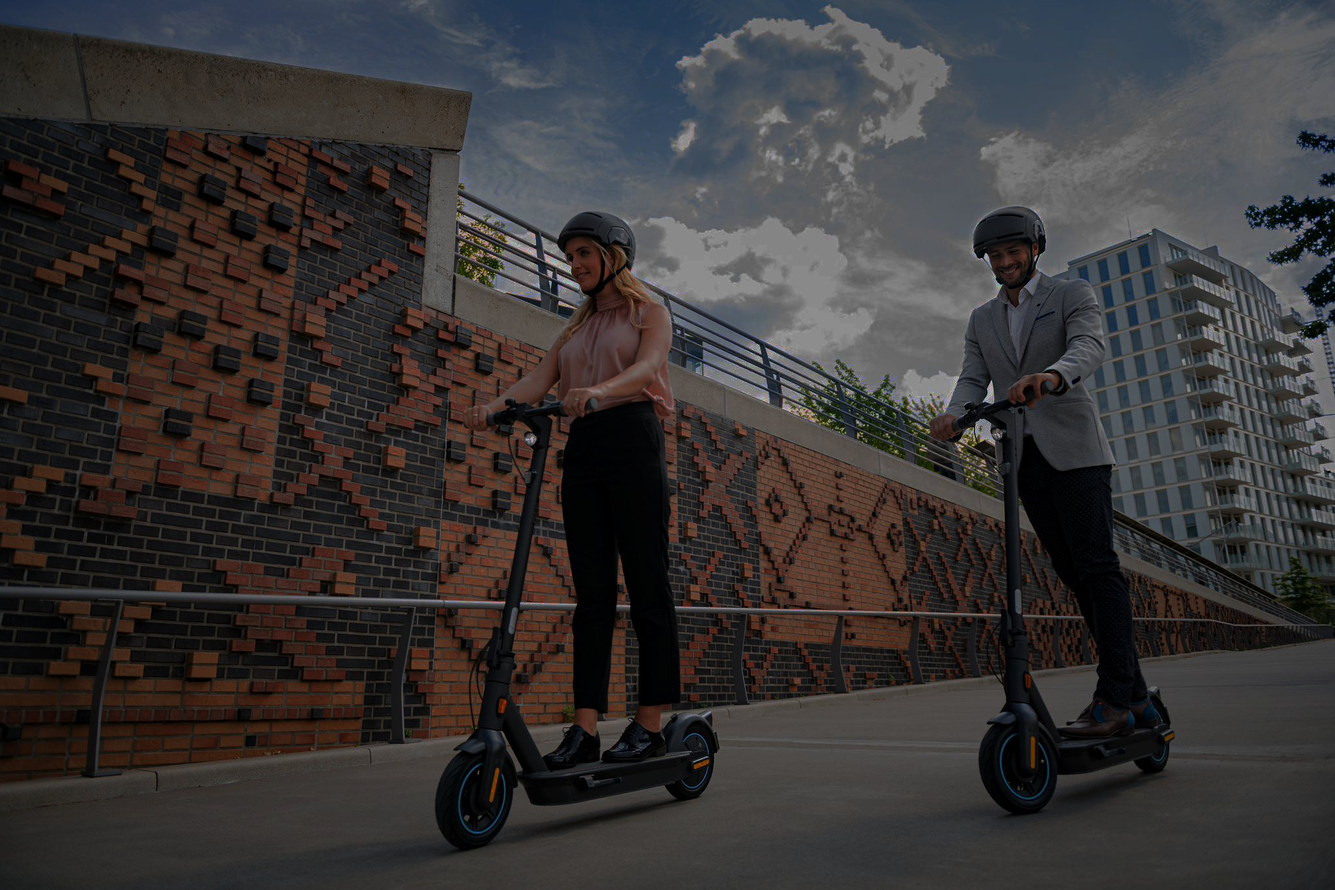
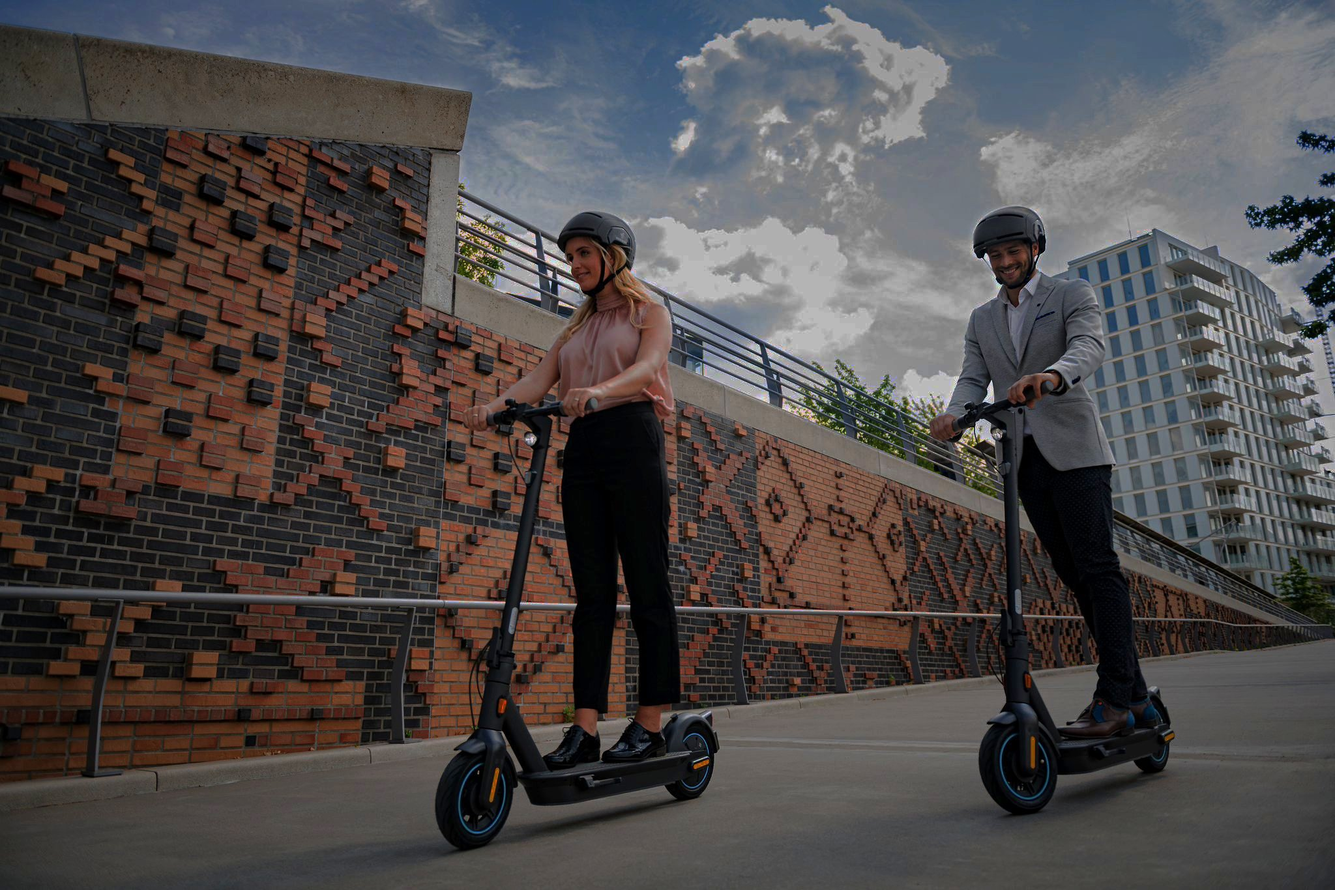
updates

diff --git a/src/components/homepage/Hero.jsx b/src/components/homepage/Hero.jsx
@@ -14,8 +14,7 @@ const data = [
     id: 1,
     title: 'E-SCooTER REPARATUR',
     image: reparatur,
-    content:
-      '',
+    content: '',
     buttonText: 'Reparaturtermin Online Buchen',
     href: '#',
   },
@@ -23,8 +22,7 @@ const data = [
     id: 2,
     title: 'VERKAUF',
     image: verkauf,
-    content:
-      '',
+    content: '',
     buttonText: 'E-Scooter Kaufen',
     href: 'https://store.be-scooter.de/',
   },
@@ -64,70 +62,106 @@ const data = [
     buttonText: 'Tour Buchen',
     href: 'https://store.be-scooter.de/collections/touren-1',
   },
-];
+]
 
 // Helper function to check if the display is mobile or not
 const isMobileDisplay = () => {
-  if (typeof window === 'undefined') return false;
-  return window.innerWidth <= 766;
-};
+  if (typeof window === 'undefined') return false
+  return window.innerWidth <= 766
+}
 
 export function Hero() {
-  const [expandedCard, setExpandedCard] = useState(null);
-  const [upperCardsClass, setUpperCardsClass] = useState('');
-  const [LowerCardsClass, setLowerCardsClass] = useState('');
-  const [isMobile, setIsMobile] = useState(false);
-  const [showContent, setShowContent] = useState(false);
+  const [expandedCard, setExpandedCard] = useState(null)
+  const [upperCardsClass1, setUpperCardsClass1] = useState('')
+  const [upperCardsClass2, setUpperCardsClass2] = useState('')
+  const [upperCardsClass3, setUpperCardsClass3] = useState('')
+  const [LowerCardsClass4, setLowerCardsClass4] = useState('')
+  const [LowerCardsClass5, setLowerCardsClass5] = useState('')
+  const [LowerCardsClass6, setLowerCardsClass6] = useState('')
+  const [isMobile, setIsMobile] = useState(false)
+  const [showContent, setShowContent] = useState(false)
 
   // Set initial isMobile state and handle window resize on the client-side
   useEffect(() => {
-    const isMobile = isMobileDisplay();
-    setIsMobile(isMobile);
-    setShowContent(isMobile);
+    const isMobile = isMobileDisplay()
+    setIsMobile(isMobile)
+    setShowContent(isMobile)
 
     const handleResize = () => {
-      const isMobile = isMobileDisplay();
-      setIsMobile(isMobile);
-      setShowContent(isMobile);
-    };
-    window.addEventListener('resize', handleResize);
-    return () => window.removeEventListener('resize', handleResize);
-  }, []);
+      const isMobile = isMobileDisplay()
+      setIsMobile(isMobile)
+      setShowContent(isMobile)
+    }
+    window.addEventListener('resize', handleResize)
+    return () => window.removeEventListener('resize', handleResize)
+  }, [])
 
   const handleMouseEnter = (cardId) => {
-    if (isMobile) return;
+    if (isMobile) return
 
-    setExpandedCard(cardId);
-    if (cardId > 3) {
-      setUpperCardsClass('move-up');
-      setLowerCardsClass('move-down');
+    setExpandedCard(cardId)
+
+    if(cardId == 1){
+      setLowerCardsClass5('bring-bottom-up')
+      setLowerCardsClass6('bring-bottom-up')
+    } else
+    if(cardId == 2){
+      setLowerCardsClass4('bring-bottom-up')
+      setLowerCardsClass6('bring-bottom-up')
+    } else
+    if(cardId == 3){
+      setLowerCardsClass4('bring-bottom-up')
+      setLowerCardsClass5('bring-bottom-up')
+    } else
+    if (cardId == 4) {
+      setUpperCardsClass1('move-up')
+      setLowerCardsClass4('move-down')
+    } else
+    if (cardId == 5) {
+      setUpperCardsClass2('move-up')
+      setLowerCardsClass5('move-down')
+    } else 
+    if (cardId == 6) {
+      setUpperCardsClass3('move-up')
+      setLowerCardsClass6('move-down')
     } else {
-      setUpperCardsClass('');
-      setLowerCardsClass('');
+      setUpperCardsClass1('')
+      setUpperCardsClass2('')
+      setUpperCardsClass3('')
+      setLowerCardsClass4('')
+      setLowerCardsClass5('')
+      setLowerCardsClass6('')
     }
-    setShowContent(true);
-  };
+    setShowContent(true)
+  }
 
   const handleMouseLeave = () => {
-    if (isMobile) return;
+    if (isMobile) return
 
-    setExpandedCard(null);
-    setUpperCardsClass('');
-    setLowerCardsClass('');
-    setShowContent(false);
-  };
+    setExpandedCard(null)
+    setUpperCardsClass1('')
+    setUpperCardsClass2('')
+    setUpperCardsClass3('')
+    setLowerCardsClass4('')
+    setLowerCardsClass5('')
+    setLowerCardsClass6('')
+    setShowContent(false)
+  }
 
   return (
     <div className="mx-auto bg-[#7e92a575] p-4">
-      <div className="grid grid-cols-1 md:grid-cols-3 gap-4">
+      <div className="grid grid-cols-1 gap-4 md:grid-cols-3">
         {data.map((card, index) => (
           <div
             key={card.id}
-            className={`relative lg:h-[392px] h-[720px] md:h-[220px] w-full overflow-hidden rounded-3xl transition-all duration-700 ease-in-out ${
-              expandedCard === card.id ? 'lg:h-[50rem] md:h-[29rem]' : ''
-            }  ${index < 3 ? upperCardsClass : ''} ${
-              index >= 3 ? LowerCardsClass : ''
-            }`}
+            className={`relative h-[720px] w-full overflow-hidden rounded-3xl transition-all duration-700 ease-in-out md:h-[220px] lg:h-[392px] ${
+              expandedCard === card.id ? 'md:h-[29rem] lg:h-[50rem]' : ''
+            }  ${index == 0 ? upperCardsClass1 : ''}
+            ${index == 1 ? upperCardsClass2 : ''}
+            ${index == 2 ? upperCardsClass3 : ''}
+            ${index == 3 ? LowerCardsClass4 : ''}
+            ${index == 4 ? LowerCardsClass5 : ''}
+            ${index == 5 ? LowerCardsClass6 : ''}`}
             onMouseEnter={() => handleMouseEnter(card.id)}
             onMouseLeave={handleMouseLeave}
           >
@@ -135,7 +169,7 @@ export function Hero() {
               src={card.image}
               alt={card.title}
               className={`h-full w-full object-cover ${
-                expandedCard === card.id ? 'brightness-75' : 'brightness-50'
+                expandedCard === card.id ? 'brightness-75' : 'brightness-75'
               }`}
             />
             <div
@@ -144,111 +178,118 @@ export function Hero() {
               }`}
             >
               <h2
-                className={`mb-4 lg:text-3xl text-2xl font-semibold text-white top-4 absolute`}
+                className={`absolute top-4 mb-4 text-2xl font-semibold text-white lg:text-3xl`}
               >
                 {card.title}
               </h2>
-              
+
               {(showContent || expandedCard === card.id) && (
                 <>
-               
                   <p
-                    className="lg:text-xl text-lg md:text-sm lg:mb-24 md:mb-0  text-white mt-[230px] "
+                    className="mt-[230px] text-lg text-white md:mb-0 md:text-sm  lg:mb-24 lg:text-xl "
                     dangerouslySetInnerHTML={{ __html: card.content }}
                   ></p>
                   {card.id === 2 && (
-                    <p
-                    className="lg:text-xl text-lg md:text-sm  lg:mb-24 md:mt-10 md:mb-8  text-white "
-                    
-                  >
-                    Komme doch einfach bei uns im &quot;SToRE!&quot; in Heuchelheim vorbei und lasse dich von uns persönlich beraten. Wir helfen dir gerne dabei, den perfekten E-Scooter für deine Bedürfnisse zu finden und bieten dir sogar eine kostenlose Probefahrt an. Wenn du bereits weißt, welchen E-Scooter du haben möchtest, kannst du auch direkt in unserem &quot;SToRE ONLINE!&quot; bestellen. Wir freuen uns darauf, dich kennenzulernen und dir dabei zu helfen, mobil und umweltbewusst unterwegs zu sein.</p>
+                    <p className="text-lg text-white md:mt-10  md:mb-8 md:text-sm lg:mb-24  lg:text-xl ">
+                      Komme doch einfach bei uns im &quot;SToRE!&quot; in
+                      Heuchelheim vorbei und lasse dich von uns persönlich
+                      beraten. Wir helfen dir gerne dabei, den perfekten
+                      E-Scooter für deine Bedürfnisse zu finden und bieten dir
+                      sogar eine kostenlose Probefahrt an. Wenn du bereits
+                      weißt, welchen E-Scooter du haben möchtest, kannst du auch
+                      direkt in unserem &quot;SToRE ONLINE!&quot; bestellen. Wir
+                      freuen uns darauf, dich kennenzulernen und dir dabei zu
+                      helfen, mobil und umweltbewusst unterwegs zu sein.
+                    </p>
                   )}
                   {card.id === 1 && (
-                    <p
-                    className="lg:text-xl md:text-sm  lg:mb-24 md:mt-10 lap:mb-8  text-white mt-[0px]"
-                    
-                  >
-                    Unser Ziel ist es, dass ihr stets sicher und sorgenfrei unterwegs seid. Wir kümmern uns um euren E-Scooter und bieten euch einen umfassenden Service, damit ihr euch auf das Fahren konzentrieren könnt. Dazu gehört:</p>
+                    <p className="lap:mb-8 mt-[0px]  text-white md:mt-10 md:text-sm  lg:mb-24 lg:text-xl">
+                      Unser Ziel ist es, dass ihr stets sicher und sorgenfrei
+                      unterwegs seid. Wir kümmern uns um euren E-Scooter und
+                      bieten euch einen umfassenden Service, damit ihr euch auf
+                      das Fahren konzentrieren könnt. Dazu gehört:
+                    </p>
                   )}
                   {card.id === 1 && (
                     <ul
-                                    role="list"
-                                    className="mr-auto text-md md:text-xs lg:text-lg mt-0 space-y-2 whitespace-nowrap font-semibold text-slate-100"
-                                  >
-                                    <li className="mt-24 flex gap-x-3 md:mt-0 ">
-                                      <CheckIcon
-                                        className="h-6 w-5 flex-none text-slate-100"
-                                        aria-hidden="true"
-                                      />
-                                      eine Reifenpanne zu beheben
-                                    </li>
-                                    <li className="flex gap-x-3">
-                                      <CheckIcon
-                                        className="h-6 w-5 flex-none text-slate-100"
-                                        aria-hidden="true"
-                                      />
-                                      einen Schaden zu beheben
-                                    </li>
-                                    <li className="flex gap-x-3">
-                                      <CheckIcon
-                                        className="h-6 w-5 flex-none text-slate-100"
-                                        aria-hidden="true"
-                                      />
-                                      Verschleißteile zu erneuern
-                                    </li>
-                                    <li className="flex gap-x-3">
-                                      <CheckIcon
-                                        className="h-6 w-5 flex-none text-slate-100"
-                                        aria-hidden="true"
-                                      />
-                                      Probleme zu analysieren und eine <br /> Lösung zu finden.
-                                    </li>
-                                    <li className="flex gap-x-3">
-                                      <CheckIcon
-                                        className="h-6 w-5 flex-none text-slate-100"
-                                        aria-hidden="true"
-                                      />
-                                      Original-Ersatzteile zu beschaffen
-                                    </li>
-                                    <li className="flex gap-x-3">
-                                      <CheckIcon
-                                        className="h-6 w-5 flex-none text-slate-100"
-                                        aria-hidden="true"
-                                      />
-                                      eine persönliche Note in Form von <br /> Pulverbeschichtungen
-                                    </li>
-                                  </ul>
+                      role="list"
+                      className="text-md mr-auto mt-0 space-y-2 whitespace-nowrap font-semibold text-slate-100 md:text-xs lg:text-lg"
+                    >
+                      <li className="mt-24 flex gap-x-3 md:mt-0 ">
+                        <CheckIcon
+                          className="h-6 w-5 flex-none text-slate-100"
+                          aria-hidden="true"
+                        />
+                        eine Reifenpanne zu beheben
+                      </li>
+                      <li className="flex gap-x-3">
+                        <CheckIcon
+                          className="h-6 w-5 flex-none text-slate-100"
+                          aria-hidden="true"
+                        />
+                        einen Schaden zu beheben
+                      </li>
+                      <li className="flex gap-x-3">
+                        <CheckIcon
+                          className="h-6 w-5 flex-none text-slate-100"
+                          aria-hidden="true"
+                        />
+                        Verschleißteile zu erneuern
+                      </li>
+                      <li className="flex gap-x-3">
+                        <CheckIcon
+                          className="h-6 w-5 flex-none text-slate-100"
+                          aria-hidden="true"
+                        />
+                        Probleme zu analysieren und eine <br /> Lösung zu
+                        finden.
+                      </li>
+                      <li className="flex gap-x-3">
+                        <CheckIcon
+                          className="h-6 w-5 flex-none text-slate-100"
+                          aria-hidden="true"
+                        />
+                        Original-Ersatzteile zu beschaffen
+                      </li>
+                      <li className="flex gap-x-3">
+                        <CheckIcon
+                          className="h-6 w-5 flex-none text-slate-100"
+                          aria-hidden="true"
+                        />
+                        eine persönliche Note in Form von <br />{' '}
+                        Pulverbeschichtungen
+                      </li>
+                    </ul>
                   )}
-                  <div className='mt-auto mb-10 w-full text-center'>
-                  <a
-                href={card.href}
-                className="mt-24 md:mt-12 block rounded-md border-[#4a6d92] bg-[#4a6d92] py-3 px-4 font-bold text-white hover:bg-[#3f5872] hover:-translate-y-1 transition duration-300"
-              >
-                {card.buttonText}
-              </a>
-              {card.id === 1 && (
+                  <div className="mt-auto mb-10 w-full text-center">
                     <a
-                    href={card.href}
-                    className="lg:mt-44 mt-24 md:mt-32 block rounded-md border-[#4a6d92] bg-[#4a6d92] py-3 px-4 font-bold text-white hover:bg-[#3f5872] hover:-translate-y-1 transition duration-300"
-                  >
-                    {card.buttonText}
-                  </a>
-                  )}
-                  {card.id === 2 && (
-                    <a
-                    href={card.href}
-                    className="lg:mt-44 mt-20 md:mt-32 block rounded-md border-[#4a6d92] bg-[#4a6d92] py-3 px-4 font-bold text-white hover:bg-[#3f5872] hover:-translate-y-1 transition duration-300"
-                  >
-                    {card.buttonText}
-                  </a>
-                  )}
-              </div>
-                  
+                      href={card.href}
+                      className="mt-24 block rounded-md border-[#4a6d92] bg-[#4a6d92] py-3 px-4 font-bold text-white transition duration-300 hover:-translate-y-1 hover:bg-[#3f5872] md:mt-12"
+                    >
+                      {card.buttonText}
+                    </a>
+                    {card.id === 1 && (
+                      <a
+                        href={card.href}
+                        className="mt-24 block rounded-md border-[#4a6d92] bg-[#4a6d92] py-3 px-4 font-bold text-white transition duration-300 hover:-translate-y-1 hover:bg-[#3f5872] md:mt-32 lg:mt-44"
+                      >
+                        {card.buttonText}
+                      </a>
+                    )}
+                    {card.id === 2 && (
+                      <a
+                        href={card.href}
+                        className="mt-20 block rounded-md border-[#4a6d92] bg-[#4a6d92] py-3 px-4 font-bold text-white transition duration-300 hover:-translate-y-1 hover:bg-[#3f5872] md:mt-32 lg:mt-44"
+                      >
+                        {card.buttonText}
+                      </a>
+                    )}
+                  </div>
                 </>
               )}
             </div>
-            {!expandedCard && (
-              <div className="hidden md:block absolute inset-x-0 top-1/2 mt-[-1.5em]">
+            {expandedCard !== card.id && (
+              <div className="absolute inset-x-0 top-1/2 mt-[-1.5em] hidden md:block">
                 <h2 className=" text-center text-3xl font-semibold text-white">
                   {card.title}
                 </h2>

diff --git a/src/styles/tailwind.css b/src/styles/tailwind.css
@@ -75,9 +75,15 @@
 }
 
 .move-down {
-  transform: translateY(-49%);
-
+  transform: translateY(-50%);
 }
+
+.bring-bottom-up {
+  transform: translateY(-240px);
+ 
+}
+
+
 
 
 
